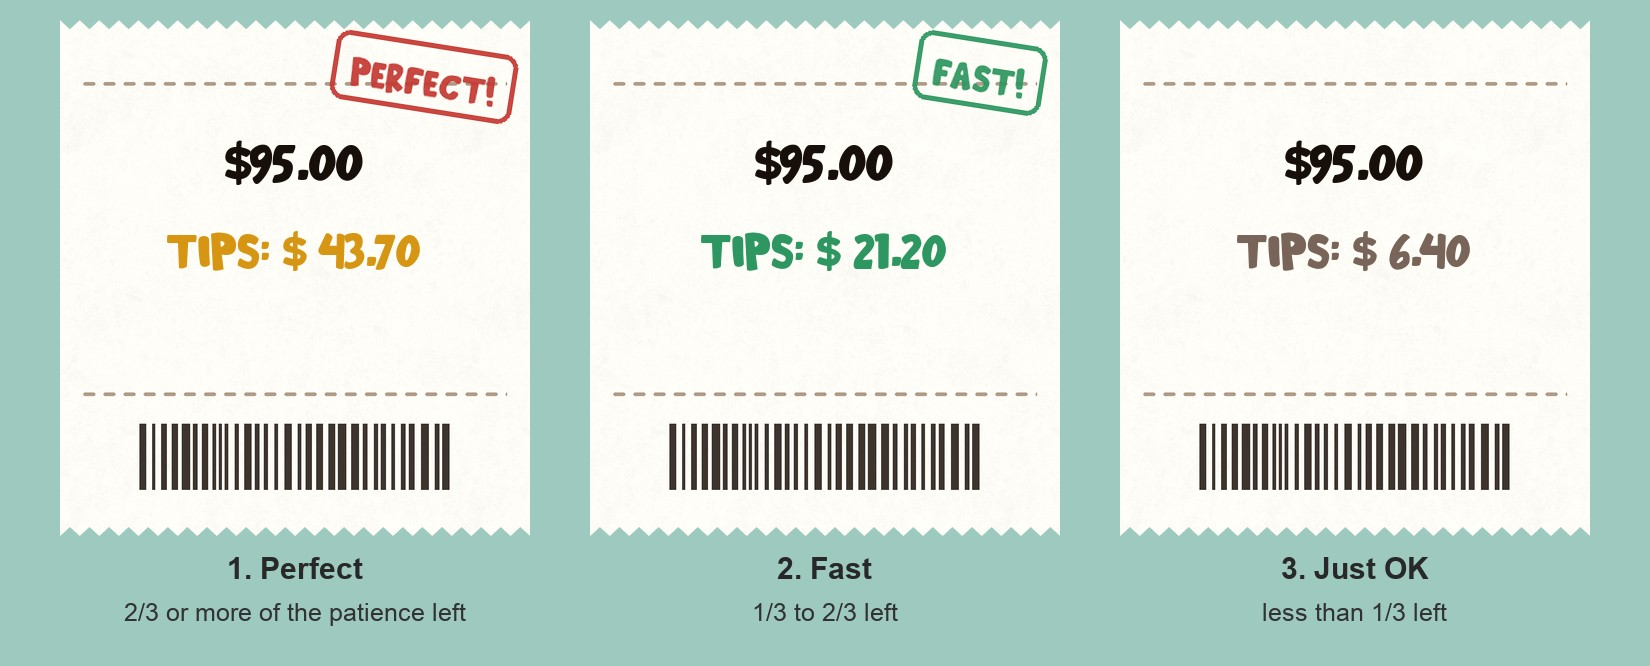
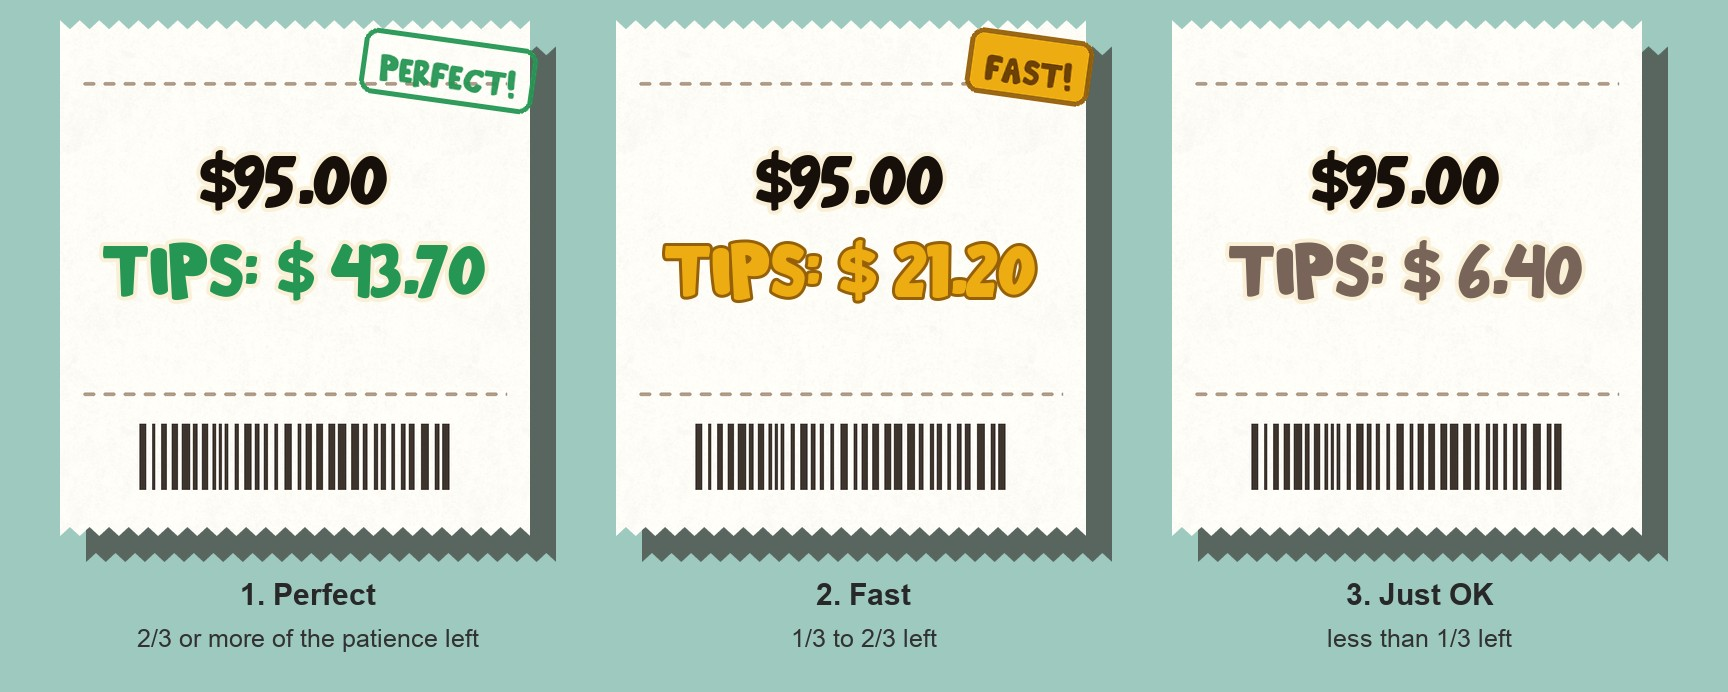
Report: tip levels in the owner's colours (green Perfect, yellow Fast), the receipt drawn as in the game

diff --git a/Docs/tools/report_page/index.html b/Docs/tools/report_page/index.html
@@ -152,10 +152,11 @@ h3 small{font-weight:600;color:var(--soft);font-size:13px;margin-left:6px}
 
 <div class="card">
 <p style="margin-top:0"><b>Tip levels: a proposal.</b> <small>A drawing; not built.</small></p>
-<figure><img src="tip_levels.jpg" alt="Three receipts, each with $95.00 and a tips line. Perfect: the tips line in gold and a red PERFECT! stamp at the corner. Fast: the tips line in green and a green FAST! stamp. Just OK: the tips line in grey-brown, no stamp"><figcaption>The receipt at the three levels.</figcaption></figure>
+<figure><img src="tip_levels.jpg" alt="Three receipts, each with $95.00 and a tips line. Perfect: the tips line in green and a green PERFECT! stamp at the corner. Fast: the tips line in yellow with a brown edge and a yellow FAST! stamp. Just OK: the tips line in grey-brown, no stamp"><figcaption>The receipt at the three levels.</figcaption></figure>
 <ul>
 <li><b>The level is how much of the customer's patience is left when the order is finished:</b> Perfect = two thirds or more, Fast = between one and two thirds, Just OK = less than a third. In chapter 1 that reads straight off the flowers: all three still up, two left, one left.</li>
-<li><b>Colours:</b> gold tips with a red PERFECT! stamp; green tips with a FAST! stamp; plain grey-brown tips, no stamp.</li>
+<li><b>Colours, as you said:</b> Perfect is green, its stamp and its tips line; Fast is yellow, its stamp and its tips line; Just OK stays plain grey-brown with no stamp. The yellow letters carry a thin brown edge, or they would not read on the white paper.</li>
+<li><b>The receipt itself</b> is now drawn as in the game. You were right: my first drawing had the two lines too small, which left an empty band under the tips. Measured on a capture, the lines fill the space between the dashed lines, as here.</li>
 <li><b>The money does not change:</b> the tip is still price x seconds left; the colour only names what the player already earned.</li>
 <li>Today's "perfect" sound and double tap (at half the patience left) would move to the new Perfect line.</li>
 </ul>
